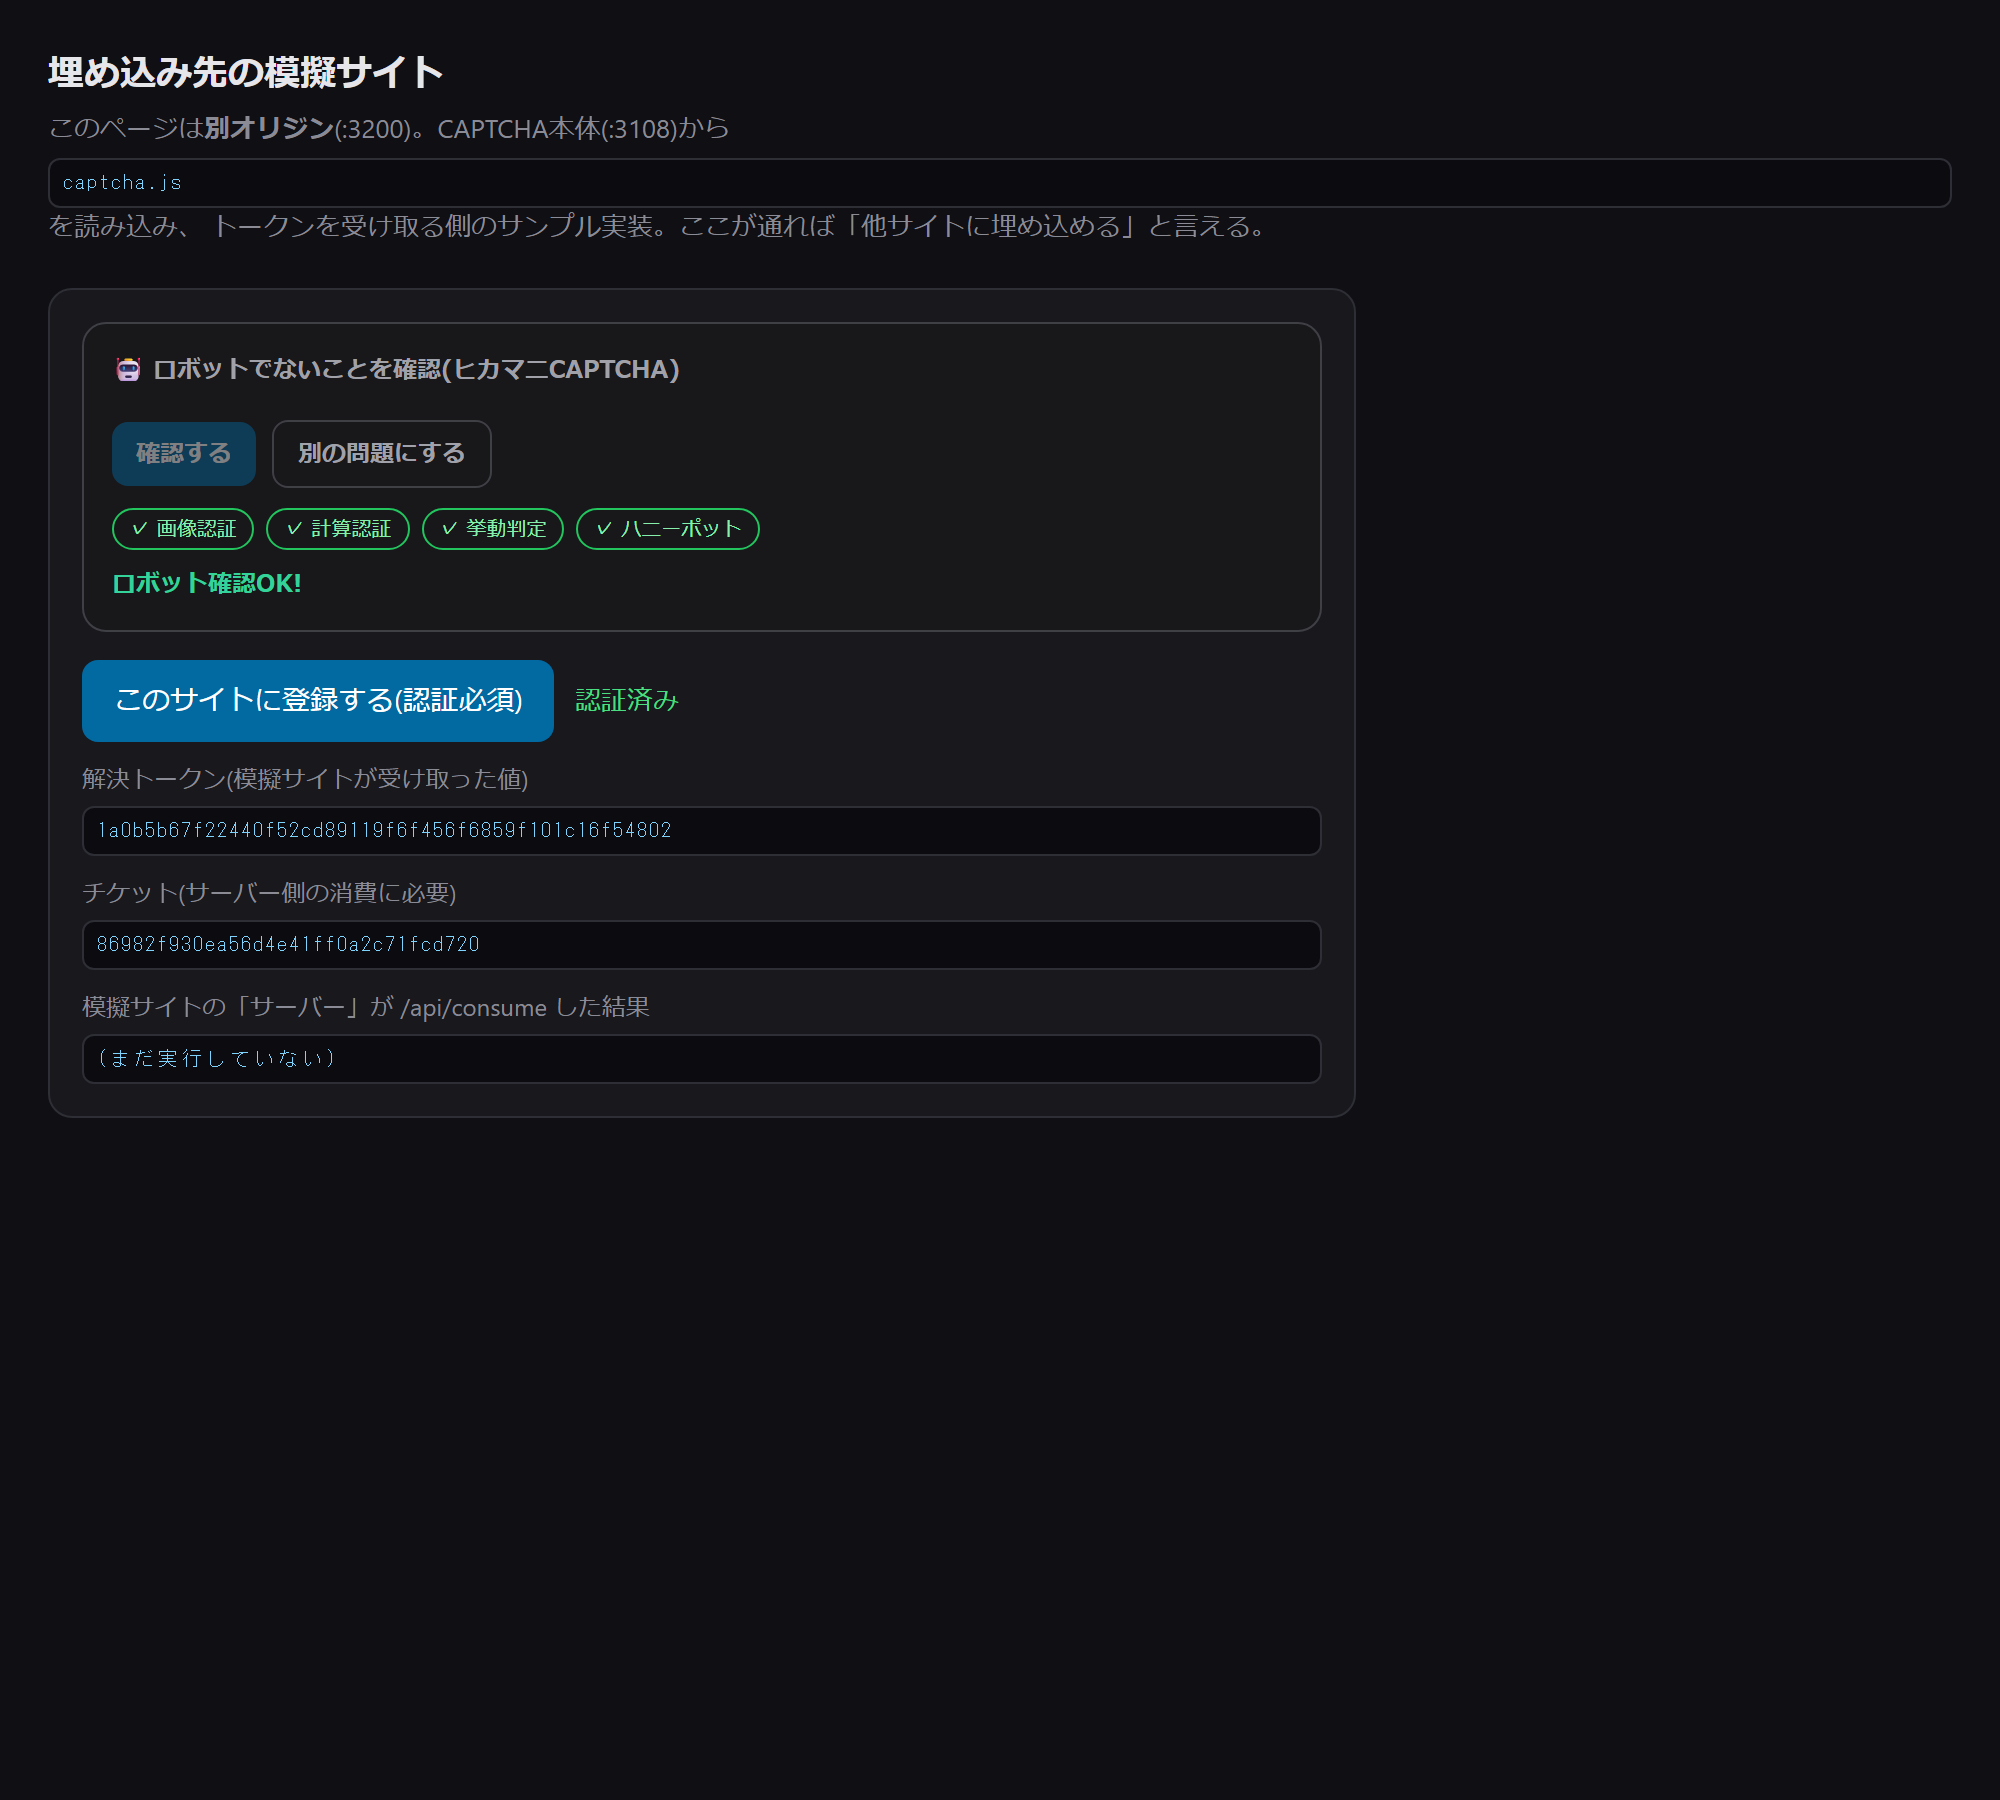
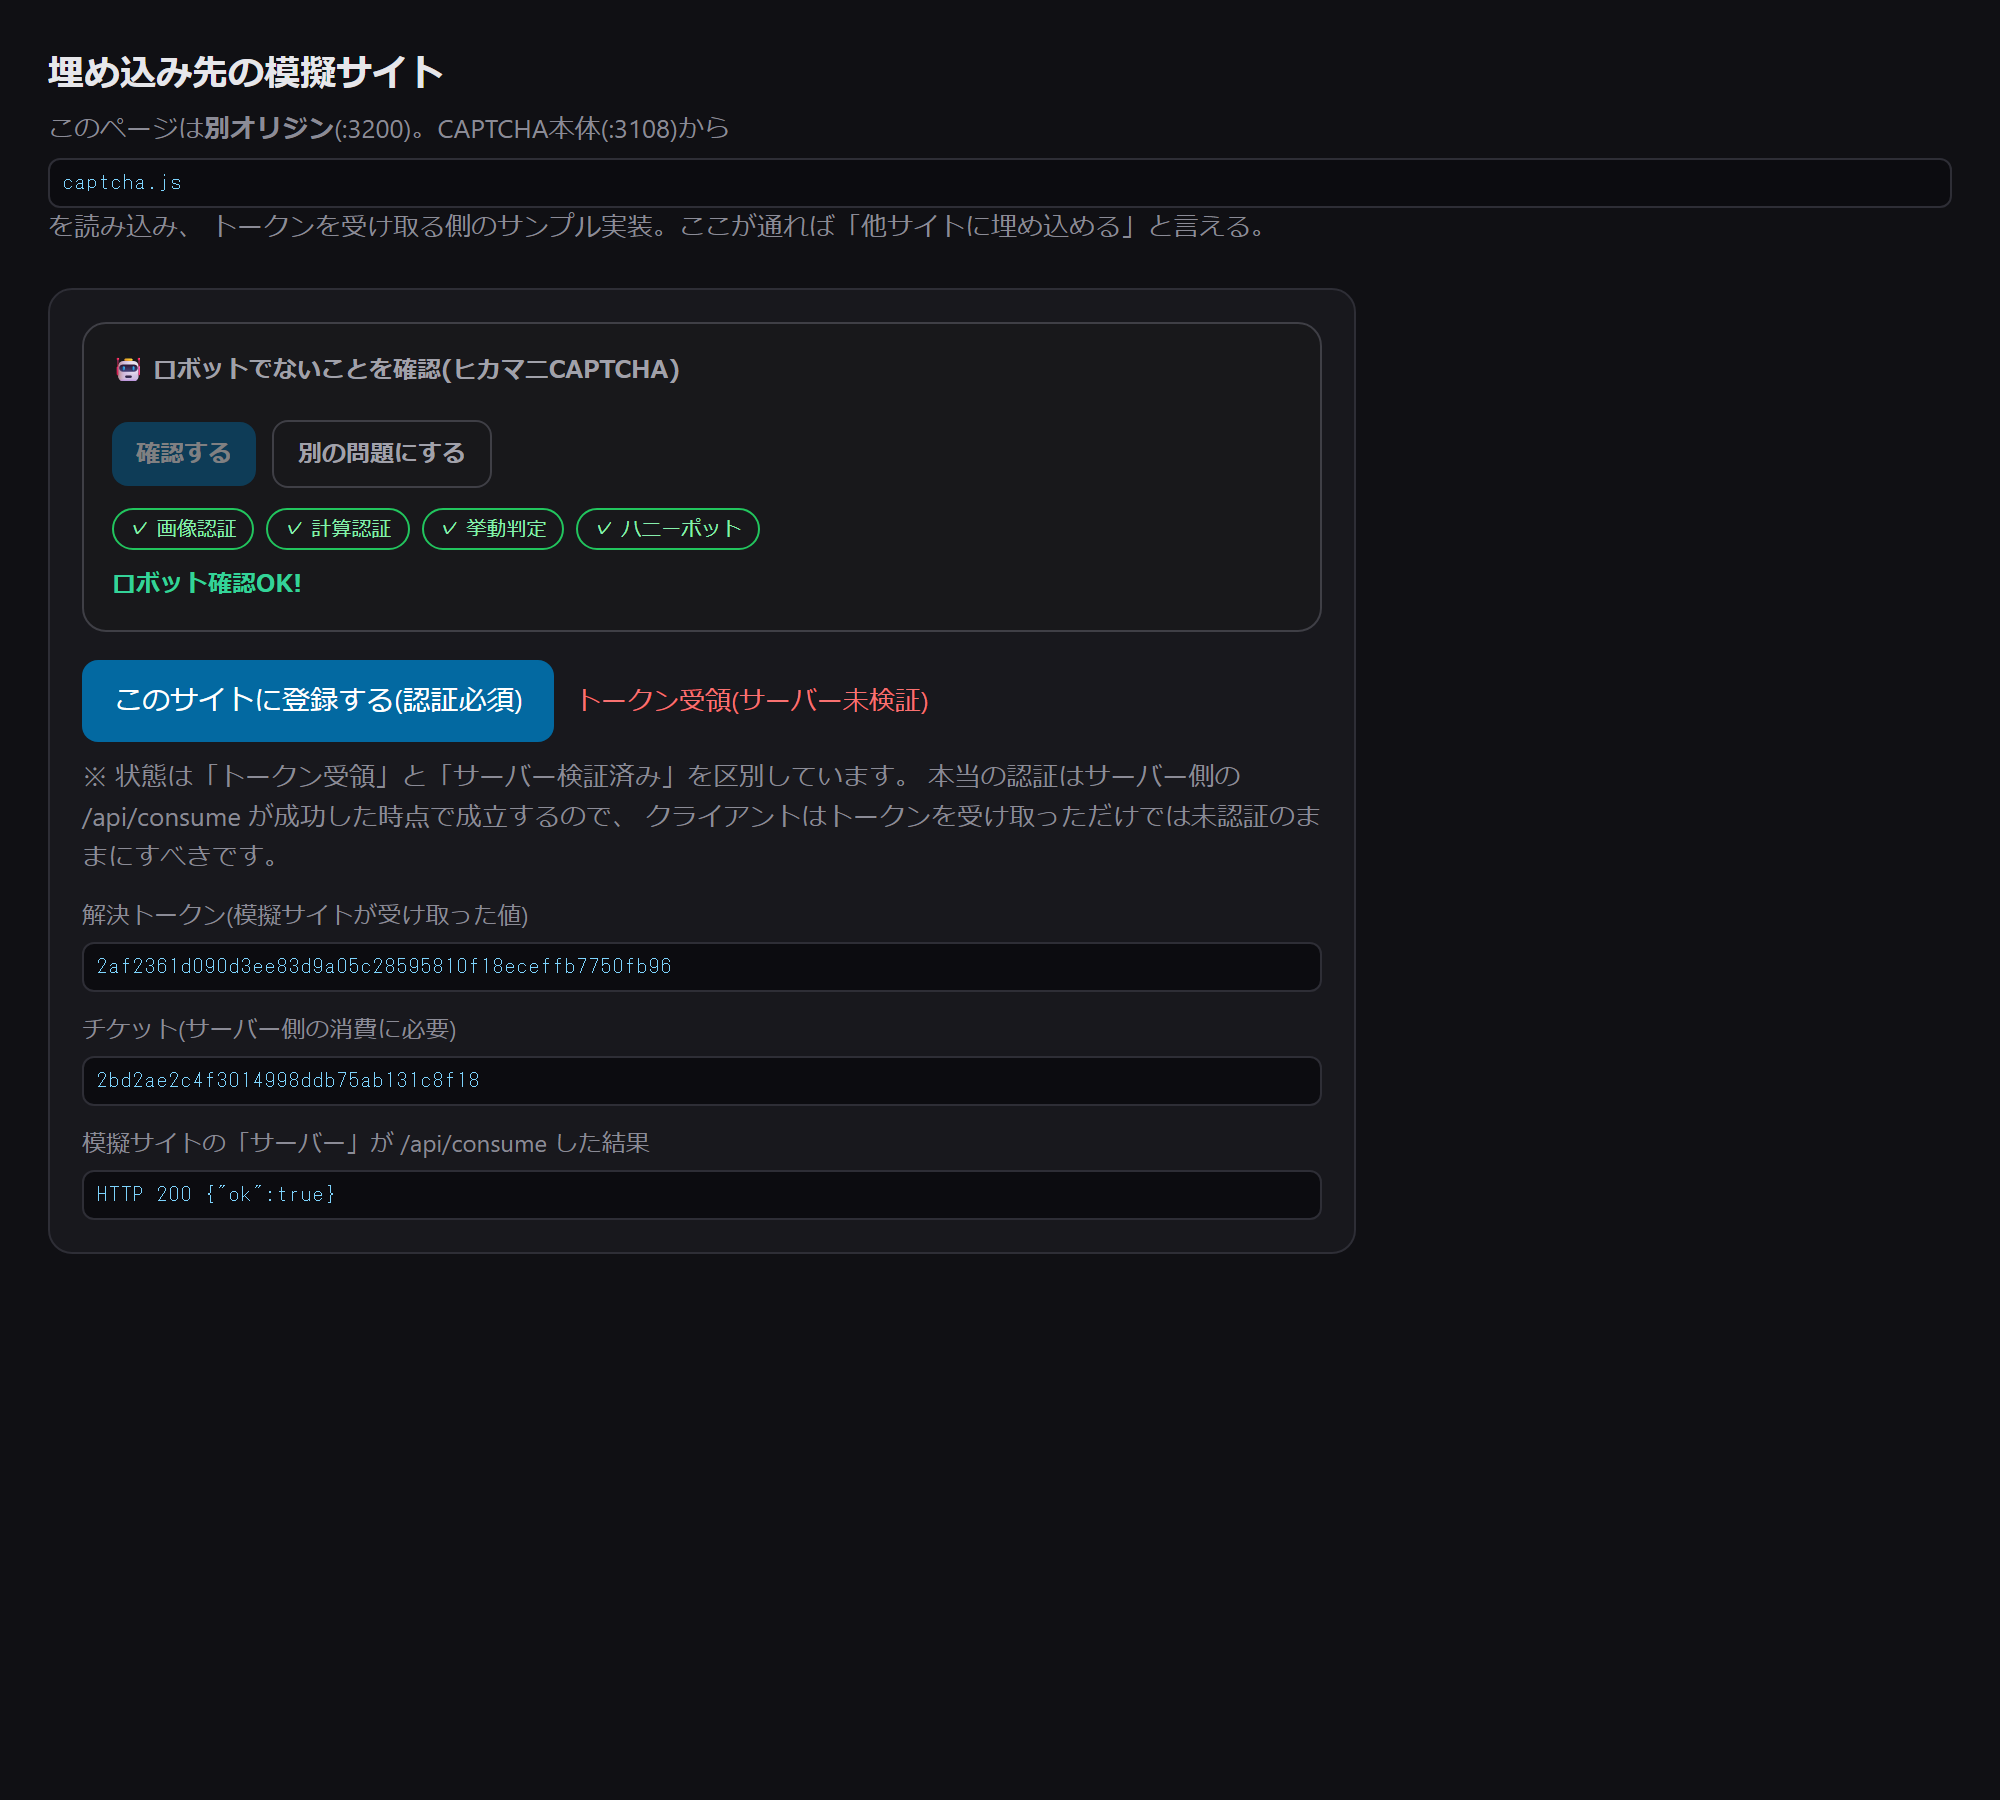
埋め込み検証を安定化: テストを決定的にし、READMEを最終設計に更新
- 多層認証テストを3回連続で回すと不安定だった2点を修正
  - B3(即答拒否): 画像取得の所要時間が閾値を超えると通ってしまうため、
    閾値を上げた新品サーバー(:3110)で決定的に検証する
  - E(適応難易度): 同じプロセスに当て続けると上限(9bit)に飽和して'上がる'を観測できないため、
    新品のデバッグコピー(:3111)を立てて検証。本番サーバーだとtargetが無く正解を選べず
    必ず不正解になる問題も併せて解消
- ハード拒否の下限(HARD_MIN_SOLVE_MS)は既定でMIN_SOLVE_MSと同じに戻した
  (ウィジェットがminMsを待つので人間は弾かれない。下げると画像取得時間の変動で
   '即答を弾く'が不安定になるため)
- 埋め込み先の模擬サイトのUIを修正: トークン受領だけでは'認証済み'にせず、
  サーバー側の/api/consume成功で初めて認証成立とする(参考実装として正しい形)

実測: 多層認証 20 PASS / 0 FAIL ×3連続・埋め込み 18 PASS / 0 FAIL ×3連続

Changed region(s): [[0.031, 0.3733, 0.651, 0.6533], [0.434, 0.3733, 0.465, 0.4044]]

diff --git a/tools/embed-test/index.html b/tools/embed-test/index.html
@@ -36,6 +36,11 @@
       <button id="signup" disabled>このサイトに登録する(認証必須)</button>
       <span id="state" class="ng">未認証</span>
     </div>
+    <p class="sub" style="margin:8px 0 0">
+      ※ 状態は「トークン受領」と「サーバー検証済み」を区別しています。
+      本当の認証はサーバー側の /api/consume が成功した時点で成立するので、
+      クライアントはトークンを受け取っただけでは未認証のままにすべきです。
+    </p>
 
     <div class="label">解決トークン(模擬サイトが受け取った値)</div>
     <code id="token">(まだ無し)</code>
@@ -59,8 +64,11 @@
         document.getElementById("token").textContent = token || "(空)";
         document.getElementById("ticket").textContent = ticket || "(空)";
         document.getElementById("signup").disabled = !token;
-        document.getElementById("state").textContent = "認証済み";
-        document.getElementById("state").className = "ok";
+        // ⚠ ここは「トークンを受け取った」だけ。認証の成立はサーバー側の消費が成功した時点。
+        // クライアントだけで「認証済み」にしてしまうと、トークンを消費せずに登録できてしまう
+        // (ワンタイムトークンを使い回せてしまう)ので、状態を分けて表示する。
+        document.getElementById("state").textContent = "トークン受領(サーバー未検証)";
+        document.getElementById("state").className = "ng";
         window.__solved = { token: token, ticket: ticket };
       }
     });
@@ -79,6 +87,15 @@
         });
         var j = await r.json();
         out.textContent = "HTTP " + r.status + " " + JSON.stringify(j);
+        // サーバー側の消費が成功して初めて認証成立
+        if (j && j.ok === true) {
+          document.getElementById("state").textContent = "認証済み(サーバー検証済み)";
+          document.getElementById("state").className = "ok";
+          window.__authed = true;
+        } else {
+          document.getElementById("state").textContent = "認証失敗";
+          document.getElementById("state").className = "ng";
+        }
       } catch (e) {
         out.textContent = "例外: " + e.message;
       }

diff --git a/tools/embed-test/verify-embed.py b/tools/embed-test/verify-embed.py
@@ -65,7 +65,13 @@ with sync_playwright() as p:
     def on_response(resp):
         if resp.url.endswith("/api/challenge") and resp.status == 200:
             try:
-                captured["body"] = resp.json()
+                j = resp.json()
+                captured["body"] = j
+                # 新しいchallengeが来たことをテスト側から検知できるようにする
+                try:
+                    pg.evaluate("(id) => { window.__capId = id; }", j.get("id"))
+                except Exception:
+                    pass
             except Exception:
                 pass
 
@@ -158,18 +164,71 @@ with sync_playwright() as p:
         state = pg.evaluate("() => document.getElementById('state').textContent")
         log("別オリジンで解いてトークンを受け取れる", bool(tok) and len(tok) > 10, f"token={tok[:14]}… ({len(tok)}字)")
         log("チケットも受け取れる", bool(tic) and len(tic) > 5, f"ticket={tic[:10]}…")
-        log("埋め込み先の登録ボタンが有効化される", state == "認証済み", f"state={state}")
+        # トークン受領の時点では「未検証」であること(クライアントだけで認証済みにしない)
+        log("トークン受領だけでは認証済みにしない", "未検証" in state, f"state={state}")
+        log("埋め込み先の登録ボタンが有効化される", pg.evaluate("() => !document.getElementById('signup').disabled"), "有効")
 
-        # 埋め込み先のサーバー役が消費する
-        st, body2 = consume(tok, tic)
-        log("埋め込み先が /api/consume でトークンを消費できる", st == 200 and body2.get("ok") is True, f"HTTP{st} {body2}")
+        # --- ラウンドA: 埋め込み先の「サーバー」が消費する(BFFパターン) ---
+        # ここで初めて認証が成立する。UIがサーバー検証に追従しているかも見る。
+        pg.evaluate("() => document.getElementById('signup').click()")
+        pg.wait_for_function(
+            "() => /認証済み|認証失敗/.test(document.getElementById('state').textContent)",
+            timeout=25000,
+        )
+        state2 = pg.evaluate("() => document.getElementById('state').textContent")
+        log("別オリジンのブラウザ経由でconsumeして認証済みになる", "サーバー検証済み" in state2, f"state={state2}")
 
-        # ワンタイムか(二度目は拒否)
-        st2, body2b = consume(tok, tic)
+        # --- ラウンドB: サーバー間のconsume(実際のBFF)と、使い回しの拒否 ---
+        # 新しい問題を解いて、2つ目のトークンを取る
+        pg.evaluate("() => { const sr=document.getElementById('captcha').shadowRoot;"
+                    " const b=[...sr.querySelectorAll('.hkc-btn')].find(x=>/別の問題|やり直/.test(x.textContent)); if(b) b.click(); }")
+        pg.wait_for_function(
+            "() => { const h=document.getElementById('captcha');"
+            " return h && h.shadowRoot && h.shadowRoot.querySelectorAll('.hkc-tile').length===9; }",
+            timeout=30000,
+        )
+        # 2回目は「1つ目とは別のchallenge」が届くまで待つ(固定待ちだと取りこぼす)
+        first_id = body.get("id")
+        try:
+            pg.wait_for_function(
+                "(fid) => window.__capId && window.__capId !== fid",
+                arg=first_id,
+                timeout=30000,
+            )
+        except Exception as e:
+            print("   2つ目のchallenge待ちでタイムアウト:", str(e)[:80])
+        pg.wait_for_function(
+            "() => { const h=document.getElementById('captcha');"
+            " return h && h.shadowRoot && h.shadowRoot.querySelectorAll('.hkc-tile').length===9; }",
+            timeout=30000,
+        )
+        body2nd = captured.get("body") or {}
+        idx2 = [i for i, t in enumerate(body2nd.get("tiles") or []) if t.get("target")]
+        print(f"   2つ目: モード={body2nd.get('mode')} 正解{len(idx2)}枚")
+        pg.evaluate(
+            r"""(idx) => {
+          const sr = document.getElementById('captcha').shadowRoot;
+          [...sr.querySelectorAll('.hkc-tile')].forEach((t,i) => { if (idx.includes(i)) t.click(); });
+        }""",
+            idx2,
+        )
+        pg.evaluate("() => document.getElementById('captcha').shadowRoot.querySelector('.hkc-btn.ok').click()")
+        pg.wait_for_function(
+            "() => { const t=document.getElementById('token').textContent; return t && t.length > 10 && t !== "
+            + repr(tok) + "; }",
+            timeout=60000,
+        )
+        tok2 = pg.evaluate("() => document.getElementById('token').textContent")
+        tic2 = pg.evaluate("() => document.getElementById('ticket').textContent")
+        log("2つ目のトークンも取れる", tok2 != tok and len(tok2) > 10, f"token2={tok2[:12]}…")
+
+        st, body2 = consume(tok2, tic2)
+        log("サーバー間で /api/consume できる(実際のBFF)", st == 200 and body2.get("ok") is True, f"HTTP{st} {body2}")
+
+        st2, body2b = consume(tok2, tic2)
         log("同じトークンの二度使いは拒否される", not (st2 == 200 and body2b.get("ok") is True), f"HTTP{st2} {body2b}")
 
-        # チケット無しでの消費は拒否(横流し対策の確認)
-        st3, body3 = consume(tok, "")
+        st3, body3 = consume(tok2, "")
         log("チケット無しの消費は拒否される", not (st3 == 200 and body3.get("ok") is True), f"HTTP{st3} {body3}")
 
     pg.screenshot(path=f"{SHOT}/embed-site.png", full_page=True)
